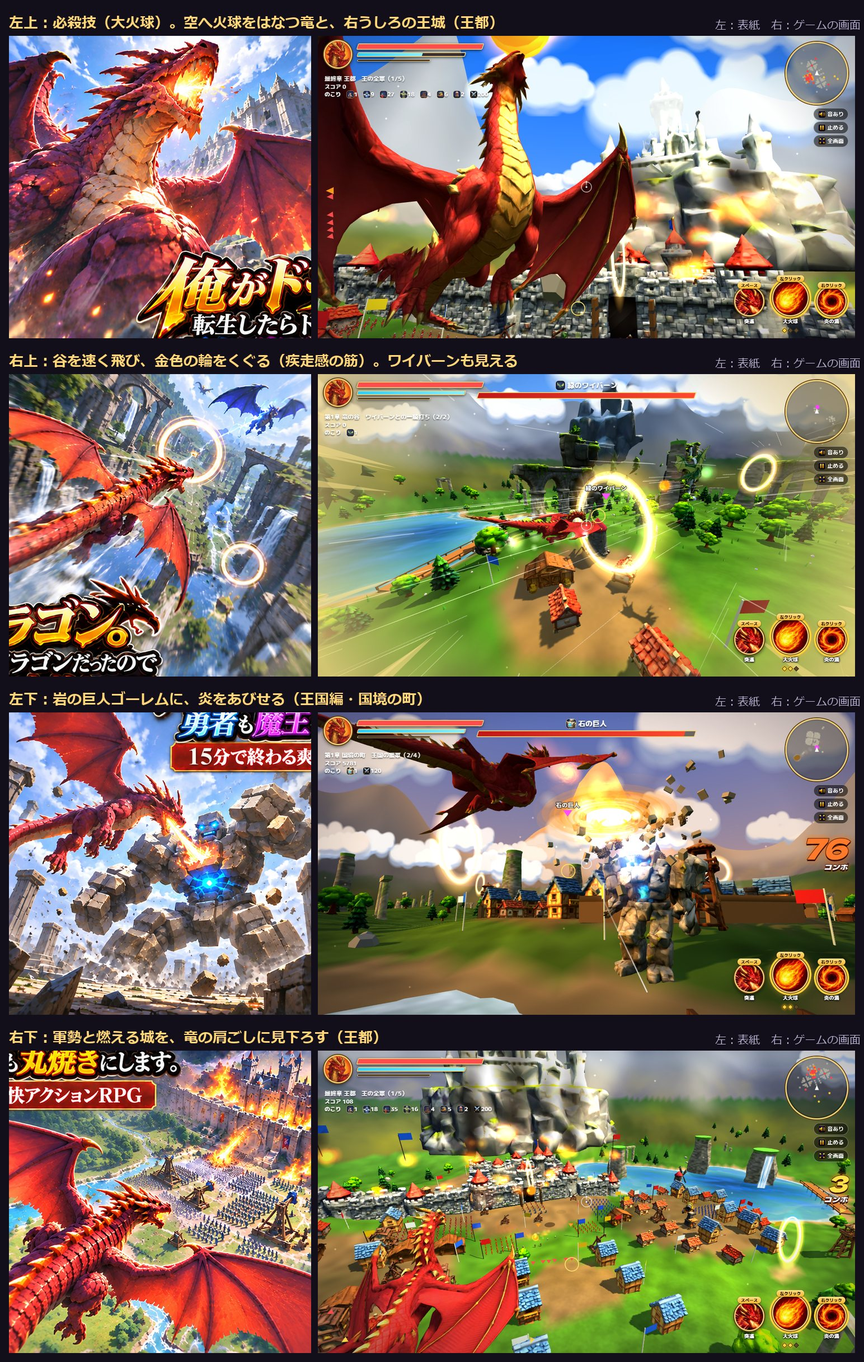
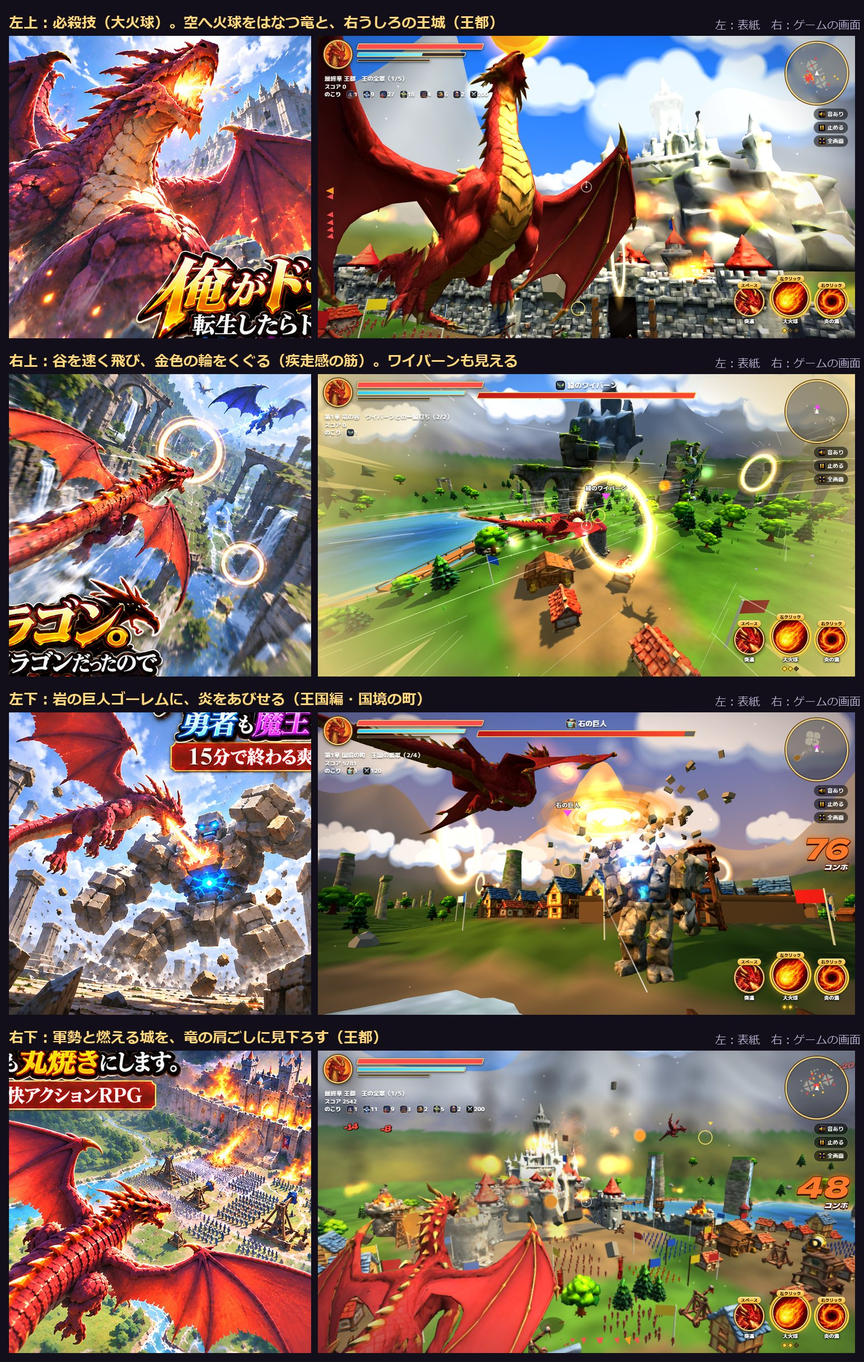
ゲームを更新

Changed region(s): [[0.342, 0.75, 0.9948, 1.0]]

diff --git a/hikaku.html b/hikaku.html
@@ -34,7 +34,7 @@ small{color:#b9afcf}
 </style></head><body><main>
 <a class="back" href="./">▶ ゲームを遊ぶ</a>
 <h1>渡された絵 と ゲーム画面の見比べ</h1>
-<p><small>2026年11月15日　版 1116aar　（左：渡された絵　右：ゲームの画面）</small></p>
+<p><small>2026年11月15日　版 1116aax　（左：渡された絵　右：ゲームの画面）</small></p>
 <p class="lead">結論：11/15 の直し（谷の景色・ゴーレム・疾走感・王都・洞窟・シナリオ1のカメラ）を入れた今のゲームで、表紙の4コマと迷宮・ゴーレム・魔王・ワイバーンの衝突の絵を撮り直しました。谷の山とがけ、ゴーレムの青い光、速く飛ぶ筋、王都の明るさは絵に近づきました。洞窟と一部のワイバーンの絵は、撮り直すと前より悪かったので前のままです。まだ届いていない所は、各章の「まだちがう所」に書きました。</p>
 <p class="lead" style="font-size:15px">✍ <b>文字で指示できます。</b>各コマの下の黄色い箱で、直したい所にチェック → コピー → Claude Code に貼ってください。コマの見出しも文字で選べます。　関連：<a href="https://dragon-taihi-fumi.surge.sh/">前後の対比</a>／<a href="https://dragon-kamishibai-fumi.surge.sh/">紙芝居の一覧</a>／<a href="https://dragon-shincho-fumi.surge.sh/">身長くらべ</a></p><div class="toc"><a href="#s1">表紙の4コマ</a><a href="#s2">勇者の一行との戦い（洞窟）</a><a href="#s3">ワイバーンとの一騎打ち</a><a href="#s4">地下の迷宮</a><a href="#s5">封印の扉の前のゴーレム戦</a><a href="#s6">魔王の間</a><a href="#s7">こわれる時のかけら（前と今）</a></div>
 <section id="s1"><h2>表紙の4コマ</h2><img src="hikaku.jpg" alt="表紙の4コマ：渡された絵とゲームの画面">
@@ -71,7 +71,7 @@ small{color:#b9afcf}
 <a class="back" href="./">▶ ゲームを遊ぶ</a>　<a href="story.html">物語を1枚で読むページ</a>
 </main><div class="sjb"><div class="sjr"><span>えらんだ指示：<b class="sjn2">0</b>件</span><button type="button" class="sja">まとめてコピー</button><button type="button" class="sjv g">文を見る</button><button type="button" class="sjx g">全部はずす</button><span class="sjm2"></span></div><textarea readonly></textarea></div><script>
 (function(){
-  var CFG={"page": "見くらべ", "ver": "1116aar", "url": "https://obake0000.github.io/ore-ga-dragon/hikaku.html"},KEY='shiji_'+CFG.page;
+  var CFG={"page": "見くらべ", "ver": "1116aax", "url": "https://obake0000.github.io/ore-ga-dragon/hikaku.html"},KEY='shiji_'+CFG.page;
   var boxes=[].slice.call(document.querySelectorAll('.sj'));
   function rows(b){return [].slice.call(b.querySelectorAll('.sjp')).map(function(r){return {k:r.querySelector('.sjk'),n:r.querySelector('.sjn').textContent,i:r.querySelector('.sji')};});}
   function textOf(b){var L=[];rows(b).forEach(function(r){if(!r.k.checked)return;var v=r.i.value.trim();if(r.n==='そのほか'){if(v)L.push('・'+v);}else L.push('・'+r.n+'：'+(v||b.dataset.dflt));});
